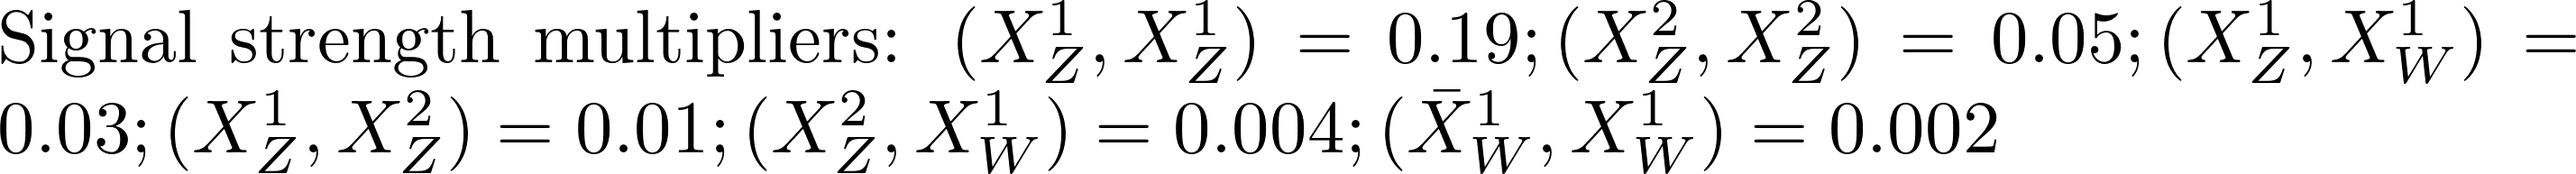
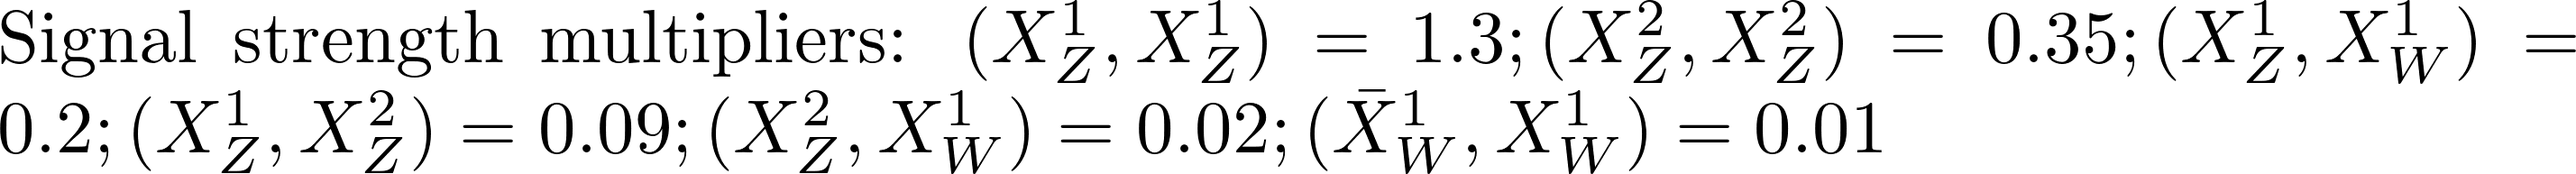
automated update by plotHiscore.py to rundir7_320:     K=2.333 TL=12.73 walkerid=716

Changed region(s): [[0.0623, 0.0, 0.9657, 0.4974], [0.0, 0.4974, 0.7788, 1.0]]

diff --git a/protomodels/rundir7_320/rawnumbers.html b/protomodels/rundir7_320/rawnumbers.html
@@ -1,18 +1,16 @@
 <table>
 <tr><th>Analysis Name</th><th>Type</th><th>Dataset</th><th>Topos</th><th>Observed</th><th>Expected</th><th>Approx &sigma;</th><th>Particles</th>
 </tr>
-<tr><td><a href=https://atlas.web.cern.ch/Atlas/GROUPS/PHYSICS/PAPERS/SUSY-2018-16/>ATLAS-SUSY-2018-16-hino</a></td><td>em</td> <td>SR_ewk_2l_med</td><td>TChiZoff</td><td>170</td><td>112.40 +/- 12.60</td><td style="text-align:right">3.3 &sigma;</td><td style="text-align:right">X<sup>2</sup><sub>Z</sub>, X<sup>1</sup><sub>Z</sub></td></tr>
-<tr><td><a href=https://atlas.web.cern.ch/Atlas/GROUPS/PHYSICS/PAPERS/EXOT-2018-06/>ATLAS-EXOT-2018-06</a></td><td>em</td> <td>EM10</td><td>TChiISR, TChiWISRll, TChiZISRll, TChiZISRqq</td><td>413</td><td>359.00 +/- 10.00</td><td style="text-align:right">2.4 &sigma;</td><td style="text-align:right">X<sup>1</sup><sub>W</sub>, X<sup>2</sup><sub>Z</sub>, X<sup>1</sup><sub>Z</sub></td></tr>
-<tr><td><a href=http://cms-results.web.cern.ch/cms-results/public-results/publications/EXO-20-004/>CMS-EXO-20-004</a></td><td>comb</td> <td>-</td><td>TChiISR, TChiWISRll, TChiZISRll, TChiZISRqq</td><td> 9e+01 fb </td><td> 7e+01 fb</td><td style="text-align:right">2.3 &sigma;</td><td style="text-align:right">X<sup>1</sup><sub>W</sub>, X<sup>2</sup><sub>Z</sub>, X<sup>1</sup><sub>Z</sub></td></tr>
+<tr><td><a href=https://atlas.web.cern.ch/Atlas/GROUPS/PHYSICS/PAPERS/SUSY-2018-16/>ATLAS-SUSY-2018-16-hino</a></td><td>em</td> <td>SR_ewk_2l_med</td><td>TChiZoff</td><td>170</td><td>112.40 +/- 12.60</td><td style="text-align:right">3.2 &sigma;</td><td style="text-align:right">X<sup>2</sup><sub>Z</sub>, X<sup>1</sup><sub>Z</sub></td></tr>
+<tr><td><a href=https://atlas.web.cern.ch/Atlas/GROUPS/PHYSICS/PAPERS/EXOT-2018-06/>ATLAS-EXOT-2018-06</a></td><td>em</td> <td>EM10</td><td>TChiISR, TChiWISRll, TChiWWISRqq, TChiZISRll, TChiZISRqq</td><td>413</td><td>359.00 +/- 10.00</td><td style="text-align:right">2.4 &sigma;</td><td style="text-align:right">X<sup>1</sup><sub>W</sub>, X<sup>2</sup><sub>Z</sub>, X<sup>1</sup><sub>Z</sub></td></tr>
+<tr><td><a href=http://cms-results.web.cern.ch/cms-results/public-results/publications/EXO-20-004/>CMS-EXO-20-004</a></td><td>comb</td> <td>-</td><td>TChiISR, TChiWISRll, TChiWWISRqq, TChiZISRll, TChiZISRqq</td><td> 9e+01 fb </td><td> 7e+01 fb</td><td style="text-align:right">2.4 &sigma;</td><td style="text-align:right">X<sup>1</sup><sub>W</sub>, X<sup>2</sup><sub>Z</sub>, X<sup>1</sup><sub>Z</sub></td></tr>
 <tr><td><a href=https://atlas.web.cern.ch/Atlas/GROUPS/PHYSICS/PAPERS/SUSY-2018-06/>ATLAS-SUSY-2018-06</a></td><td>em</td> <td>SR_ISR</td><td>TChiWZoff</td><td>30</td><td>23.40 +/- 2.10</td><td style="text-align:right">1.1 &sigma;</td><td style="text-align:right">X<sup>1</sup><sub>W</sub>, X<sup>2</sup><sub>Z</sub>, X<sup>1</sup><sub>Z</sub></td></tr>
 <tr><td><a href=https://atlas.web.cern.ch/Atlas/GROUPS/PHYSICS/PAPERS/SUSY-2013-11/>ATLAS-SUSY-2013-11</a></td><td>em</td> <td>WWa-DF</td><td>TChiWWoff</td><td>70</td><td>73.60 +/- 7.90</td><td style="text-align:right">-0.3 &sigma;</td><td style="text-align:right">X<sup>1</sup><sub>W</sub>, X<sup>1</sup><sub>Z</sub></td></tr>
 <tr><td><a href=https://atlas.web.cern.ch/Atlas/GROUPS/PHYSICS/PAPERS/SUSY-2013-12/>ATLAS-SUSY-2013-12</a></td><td>em</td> <td>SR0tau_a_Bin16</td><td>TChiWZoff</td><td>3</td><td>4.60 +/- 1.70</td><td style="text-align:right">-0.7 &sigma;</td><td style="text-align:right">X<sup>1</sup><sub>W</sub>, X<sup>2</sup><sub>Z</sub>, X<sup>1</sup><sub>Z</sub></td></tr>
-<tr><td><a href=http://cms-results.web.cern.ch/cms-results/public-results/publications/SUS-16-048/index.html>CMS-SUS-16-048</a></td><td>comb</td> <td>-</td><td>TChiWZoff</td><td> 2 fb </td><td> 2 fb</td><td style="text-align:right">-0.8 &sigma;</td><td style="text-align:right">X<sup>1</sup><sub>W</sub>, X<sup>2</sup><sub>Z</sub>, X<sup>1</sup><sub>Z</sub></td></tr>
-<tr><td><a href=http://cms-results.web.cern.ch/cms-results/public-results/publications/SUS-16-039/index.html>CMS-SUS-16-039-agg</a></td><td>comb</td> <td>-</td><td>TChiWZoff</td><td> 2 fb </td><td> 1 fb</td><td style="text-align:right">-1.0 &sigma;</td><td style="text-align:right">X<sup>1</sup><sub>W</sub>, X<sup>2</sup><sub>Z</sub>, X<sup>1</sup><sub>Z</sub></td></tr>
+<tr><td><a href=http://cms-results.web.cern.ch/cms-results/public-results/publications/SUS-16-039/index.html>CMS-SUS-16-039-agg</a></td><td>comb</td> <td>-</td><td>TChiWZoff</td><td> 2 fb </td><td> 1 fb</td><td style="text-align:right">-1.9 &sigma;</td><td style="text-align:right">X<sup>1</sup><sub>W</sub>, X<sup>2</sup><sub>Z</sub>, X<sup>1</sup><sub>Z</sub></td></tr>
+<tr><td><a href=http://cms-results.web.cern.ch/cms-results/public-results/publications/SUS-16-048/index.html>CMS-SUS-16-048</a></td><td>comb</td> <td>-</td><td>TChiWZoff</td><td> 2 fb </td><td> 2 fb</td><td style="text-align:right">-2.0 &sigma;</td><td style="text-align:right">X<sup>1</sup><sub>W</sub>, X<sup>2</sup><sub>Z</sub>, X<sup>1</sup><sub>Z</sub></td></tr>
+<tr><td><a href=http://cms-results.web.cern.ch/cms-results/public-results/publications/SUS-18-004/index.html>CMS-SUS-18-004-wbplus-agg</a></td><td>comb</td> <td>-</td><td>TChiWZoff</td><td> 0.05 fb </td><td> 0.05 fb</td><td style="text-align:right">-2.4 &sigma;</td><td style="text-align:right">X<sup>1</sup><sub>W</sub>, X<sup>2</sup><sub>Z</sub>, X<sup>1</sup><sub>Z</sub></td></tr>
 </table>
 <table style='color:grey'>
-<tr><th>Not in Best Combo</th><th>Type</th><th>Dataset</th><th>Topos</th><th>Observed</th><th>Expected</th><th>Approx &sigma;</th><th>Particles</th><tr><td><a href=https://atlas.web.cern.ch/Atlas/GROUPS/PHYSICS/PAPERS/SUSY-2018-05/>ATLAS-SUSY-2018-05-ewk</a></td><td>comb</td> <td>-</td><td>TChiWZoff</td><td> 0.07 fb </td><td> 0.07 fb</td><td style="text-align:right">1.4 &sigma;</td><td style="text-align:right">X<sup>2</sup><sub>Z</sub>, X<sup>1</sup><sub>Z</sub></td></tr>
-<tr><td><a href=http://cms-results.web.cern.ch/cms-results/public-results/publications/SUS-18-004/index.html>CMS-SUS-18-004-wbplus-agg</a></td><td>comb</td> <td>-</td><td>TChiWZoff</td><td> 0.05 fb </td><td> 0.05 fb</td><td style="text-align:right">0.8 &sigma;</td><td style="text-align:right">X<sup>1</sup><sub>W</sub>, X<sup>2</sup><sub>Z</sub>, X<sup>1</sup><sub>Z</sub></td></tr>
-<tr><td><a href=https://atlas.web.cern.ch/Atlas/GROUPS/PHYSICS/PAPERS/SUSY-2018-16/>ATLAS-SUSY-2018-16</a></td><td>comb</td> <td>-</td><td>TChiWZoff</td><td> 1 fb </td><td> 2 fb</td><td style="text-align:right">0.7 &sigma;</td><td style="text-align:right">X<sup>2</sup><sub>Z</sub>, X<sup>1</sup><sub>Z</sub></td></tr>
-<tr><td><a href=https://atlas.web.cern.ch/Atlas/GROUPS/PHYSICS/PAPERS/SUSY-2019-09/>ATLAS-SUSY-2019-09</a></td><td>comb</td> <td>-</td><td>TChiWZoff</td><td> 0.4 fb </td><td> 0.3 fb</td><td style="text-align:right">-2.1 &sigma;</td><td style="text-align:right">X<sup>1</sup><sub>W</sub>, X<sup>2</sup><sub>Z</sub>, X<sup>1</sup><sub>Z</sub></td></tr>
+<tr><th>Not in Best Combo</th><th>Type</th><th>Dataset</th><th>Topos</th><th>Observed</th><th>Expected</th><th>Approx &sigma;</th><th>Particles</th><tr><td><a href=https://atlas.web.cern.ch/Atlas/GROUPS/PHYSICS/PAPERS/SUSY-2019-09/>ATLAS-SUSY-2019-09</a></td><td>comb</td> <td>-</td><td>TChiWZoff</td><td> 0.3 fb </td><td> 0.3 fb</td><td style="text-align:right">1.5 &sigma;</td><td style="text-align:right">X<sup>1</sup><sub>W</sub>, X<sup>2</sup><sub>Z</sub>, X<sup>1</sup><sub>Z</sub></td></tr>
 </table>

diff --git a/protomodels/rundir7_320/index.html b/protomodels/rundir7_320/index.html
@@ -1,27 +1,27 @@
 <html>
 <body>
 <center>
-<table><td><h1>Current best protomodel: <i>K</i>=1.31, <i>TL</i>=12.39</h1><td><img height=60px src=https://smodels.github.io//protomodels/logos/protomodel_lego.png></table>
+<table><td><h1>Current best protomodel: <i>K</i>=2.33, <i>TL</i>=12.73</h1><td><img height=60px src=https://smodels.github.io//protomodels/logos/protomodel_lego.png></table>
 </center>
-<b><a href=./hiscore.slha>ProtoModel</a> <a href=./pmodel.dict>(dict)</a> produced with <a href=https://smodels.github.io//docs/Validation320>database v3.2.0</a>, allowed_extr 0.0 in walker 717 step 754.</b> <br>
+<b><a href=./hiscore.slha>ProtoModel</a> <a href=./pmodel.dict>(dict)</a> produced with <a href=https://smodels.github.io//docs/Validation320>database v3.2.0</a>, allowed_extr 0.0 in walker 716 step 780.</b> <br>
 <table width=80%>
 <tr><td>
 <br><b>Critics:</b> passed both critics<br>
-<br><b>UL Critic: 0/1 analyses exclude</b><br>
-ATLAS-EXOT-2018-06:EM5:: <span style='color: darkgreen;'>r<sub>obs</sub>=1.324, r<sub>exp</sub>=1.372</span><br>
-ATLAS-SUSY-2019-09:SRhigh_0Je:: <span style='color: darkgreen;'>r<sub>obs</sub>=0.612, r<sub>exp</sub>=0.694</span><br>
-CMS-EXO-20-004:SR_2018_11:: <span style='color: darkgreen;'>r<sub>obs</sub>=0.347, r<sub>exp</sub>=0.487</span><br>
-<br><b>LLHD Critic:</b> ATLAS-EXOT-2018-06:EM5, CMS-EXO-20-004:matrix.cov, ATLAS-SUSY-2019-09:retrain_trial0020_combined.onnx, ATLAS-SUSY-2018-16-hino:SR_ewk_2l_high, CMS-SUS-18-004-wbplus-agg:matrix_agg_all.cov:: <span style='color: darkred;'>r<sub>obs</sub>=1.28, r<sub>exp</sub>=2.7</span><br>
+<br><b>UL Critic: 1/1 analyses exclude</b><br>
+ATLAS-EXOT-2018-06:EM5:: <span style='color: darkred;'>r<sub>obs</sub>=1.488, r<sub>exp</sub>=1.542</span><br>
+CMS-EXO-20-004:SR_2018_13:: <span style='color: darkgreen;'>r<sub>obs</sub>=0.338, r<sub>exp</sub>=0.454</span><br>
+CMS-SUS-23-003:ul:: <span style='color: darkgreen;'>r<sub>obs</sub>=0.192, r<sub>exp</sub>=0.424</span><br>
+<br><b>LLHD Critic:</b> ATLAS-EXOT-2018-06:EM5, CMS-EXO-20-004:matrix.cov:: <span style='color: darkred;'>r<sub>obs</sub>=1.18, r<sub>exp</sub>=2.43</span><br>
 </ul>
-<td><img width=600px src=./texdoc.png?1792753536>
-<br><span style='font-size: smaller; color: darkred;'>Last updated: Fri Oct 23 13:05:36 2026</span>
-<br><br><b>12 predictions available. Highest r values are:</b><br><ul>
-<li><a href=https://atlas.web.cern.ch/Atlas/GROUPS/PHYSICS/PAPERS/EXOT-2018-06/>ATLAS-EXOT-2018-06</a>:EM5:TChiZISRqq,TChiWISRll,TChiISR,TChiZISRll r=1.32, r<sub>exp</sub>=1.37<br>
-<li><a href=https://atlas.web.cern.ch/Atlas/GROUPS/PHYSICS/PAPERS/SUSY-2019-09/>ATLAS-SUSY-2019-09</a>:SRhigh_0Je:TChiWZoff r=0.61, r<sub>exp</sub>=0.69<br>
-<li><a href=http://cms-results.web.cern.ch/cms-results/public-results/publications/EXO-20-004/>CMS-EXO-20-004</a>:SR_2018_11:TChiZISRqq,TChiWISRll,TChiISR,TChiZISRll r=0.35, r<sub>exp</sub>=0.49<br>
-<li><a href=http://cms-results.web.cern.ch/cms-results/public-results/publications/SUS-18-004/index.html>CMS-SUS-18-004-wbplus-agg</a>:3l_sr_med_4:TChiWZoff r=0.09, r<sub>exp</sub>=0.08<br>
+<td><img width=600px src=./texdoc.png?1792756464>
+<br><span style='font-size: smaller; color: darkred;'>Last updated: Fri Oct 23 13:54:24 2026</span>
+<br><br><b>18 predictions available. Highest r values are:</b><br><ul>
+<li><a href=https://atlas.web.cern.ch/Atlas/GROUPS/PHYSICS/PAPERS/EXOT-2018-06/>ATLAS-EXOT-2018-06</a>:EM5:TChiWISRll,TChiISR,TChiWWISRqq,TChiZISRll,TChiZISRqq r=1.49, r<sub>exp</sub>=1.54<br>
+<li><a href=http://cms-results.web.cern.ch/cms-results/public-results/publications/EXO-20-004/>CMS-EXO-20-004</a>:SR_2018_13:TChiWISRll,TChiISR,TChiWWISRqq,TChiZISRll,TChiZISRqq r=0.34, r<sub>exp</sub>=0.45<br>
+<li><a href=https://cms-results.web.cern.ch/cms-results/public-results/publications/SUS-23-003/index.html>CMS-SUS-23-003</a>:ul:TChiWWoff r=0.19, r<sub>exp</sub>=0.42<br>
+<li><a href=https://atlas.web.cern.ch/Atlas/GROUPS/PHYSICS/PAPERS/SUSY-2019-09/>ATLAS-SUSY-2019-09</a>:SRhigh_0Je:TChiWZoff r=0.02, r<sub>exp</sub>=0.03<br>
 </table><table style="width:80%">
-<td width=40%><img height=450px src=./mass_hierarchy.png?1792753536><td width=60%><font size=-3><iframe type="text/html" height="350px" width="100%" frameborder="0" src="./rawnumbers.html?1792753536"></iframe></font>
+<td width=40%><img height=450px src=./mass_hierarchy.png?1792756464><td width=60%><font size=-3><iframe type="text/html" height="350px" width="100%" frameborder="0" src="./rawnumbers.html?1792756464"></iframe></font>
 </table>
 </body>
 </html>
